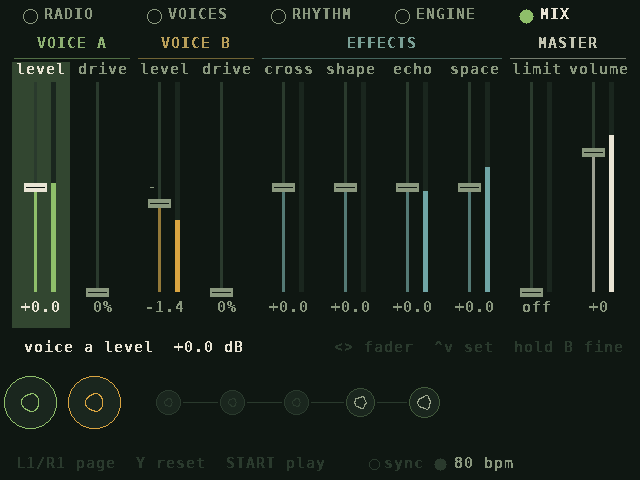
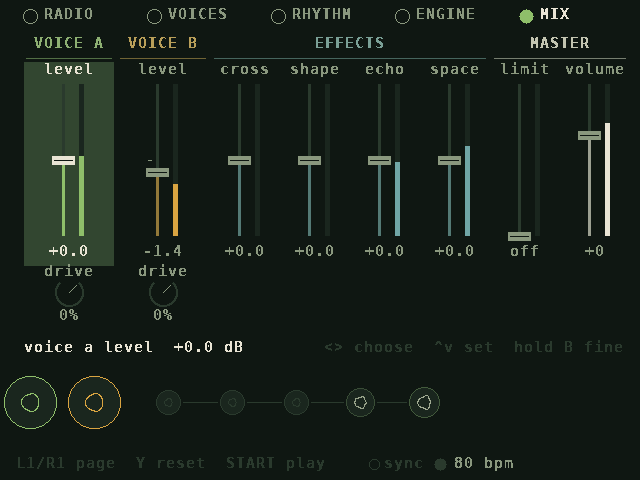
MIX page: voice drive as a knob under each level fader
Claude-Session: https://claude.ai/code/session_01BCwtH7uky1EgFAH9tziGgi

diff --git a/src/main.c b/src/main.c
@@ -1234,21 +1234,27 @@ static void draw_param_page(void)
 
 /* ------------------------------------------------------------------ MIX page: a fader for every level */
 
-typedef struct { int id, meter, group; const char *name; } MixStrip;
+/* one control on the MIX page: a fader, or a knob under its strip's fader (the voices' drive) */
+typedef struct { int id, meter, group, strip, knob; const char *name; } MixStrip;
 enum { MG_A, MG_B, MG_FX, MG_MASTER, MG_COUNT };
 static const char *const mix_group_names[MG_COUNT] = {"VOICE A", "VOICE B", "EFFECTS", "MASTER"};
-static const MixStrip mix_strips[] = {
-    {P_A_LEVEL, MIX_A, MG_A, "level"},       {P_A_DRIVE, -1, MG_A, "drive"},
-    {P_B_LEVEL, MIX_B, MG_B, "level"},       {P_B_DRIVE, -1, MG_B, "drive"},
-    {P_CROSS_LEVEL, MIX_CROSS, MG_FX, "cross"}, {P_SHAPE_LEVEL, MIX_SHAPE, MG_FX, "shape"},
-    {P_ECHO_LEVEL, MIX_ECHO, MG_FX, "echo"},  {P_SPACE_LEVEL, MIX_SPACE, MG_FX, "space"},
-    {P_LIMIT, MIX_LIMIT, MG_MASTER, "limit"}, {P_VOLUME, MIX_OUT, MG_MASTER, "volume"},
+static const MixStrip mix_strips[] = { /* in Left / Right order */
+    {P_A_LEVEL, MIX_A, MG_A, 0, 0, "level"},           {P_A_DRIVE, -1, MG_A, 0, 1, "drive"},
+    {P_B_LEVEL, MIX_B, MG_B, 1, 0, "level"},           {P_B_DRIVE, -1, MG_B, 1, 1, "drive"},
+    {P_CROSS_LEVEL, MIX_CROSS, MG_FX, 2, 0, "cross"},  {P_SHAPE_LEVEL, MIX_SHAPE, MG_FX, 3, 0, "shape"},
+    {P_ECHO_LEVEL, MIX_ECHO, MG_FX, 4, 0, "echo"},     {P_SPACE_LEVEL, MIX_SPACE, MG_FX, 5, 0, "space"},
+    {P_LIMIT, MIX_LIMIT, MG_MASTER, 6, 0, "limit"},    {P_VOLUME, MIX_OUT, MG_MASTER, 7, 0, "volume"},
 };
 #define MIX_N ((int)(sizeof mix_strips / sizeof mix_strips[0]))
-#define MIX_X0 10
-#define MIX_W 62
-#define MIX_TOP 82
-#define MIX_BOT 292
+#define MIX_STRIPS 8
+#define MIX_W 70      /* strip width; the two voice strips are wider */
+#define MIX_W_VOICE 94
+#define MIX_TOP 84
+#define MIX_BOT 236
+#define MIX_KNOB_Y 288
+
+static int mix_strip_x(int strip) { return 22 + (strip < 2 ? strip * MIX_W_VOICE : 2 * MIX_W_VOICE + (strip - 2) * MIX_W); }
+static int mix_strip_w(int strip) { return strip < 2 ? MIX_W_VOICE : MIX_W; }
 
 static Uint32 mix_group_col(int g) { return g == MG_A ? C_LEAF : g == MG_B ? C_AMBER : g == MG_FX ? C_WATER : C_TEXT; }
 
@@ -1259,7 +1265,7 @@ static float mix_frac(int id, float v)
     return f < 0 ? 0 : f > 1 ? 1 : f;
 }
 
-/* short value for under a fader (the full one is shown for the selected fader) */
+/* short value for under a control (the full one is shown for the selected control) */
 static void mix_short_value(int id, float v, char *b, int n)
 {
     const char *unit = param_info[id].unit;
@@ -1269,63 +1275,84 @@ static void mix_short_value(int id, float v, char *b, int n)
     else snprintf(b, n, "%.0f%%", v * 100);
 }
 
+static void draw_mix_fader(const MixStrip *m, int cx, int sel, const float *p)
+{
+    Uint32 col = mix_group_col(m->group);
+    int h = MIX_BOT - MIX_TOP;
+    int tx = cx - 6; /* the track, with the meter to its right */
+    fill(tx - 1, MIX_TOP, 3, h, C_PANEL2);
+    float f = mix_frac(m->id, p[m->id]);
+    int ty = MIX_BOT - (int)(f * h);
+    fill(tx - 1, ty, 3, MIX_BOT - ty, sel ? col : mix_col(C_PANEL2, col, 0.6f));
+    float unity = !strcmp(param_info[m->id].unit, "lvl") ? mix_frac(m->id, 1.0f) :
+                  m->id == P_VOLUME ? mix_frac(m->id, 0.0f) : -1;
+    if (unity >= 0) { int uy = MIX_BOT - (int)(unity * h); fill(tx - 9, uy, 4, 1, C_DIM); }
+    fill(tx - 11, ty - 4, 23, 9, sel ? C_TEXT : C_DIM); /* thumb */
+    fill(tx - 9, ty, 19, 1, C_BG);
+    if (m->meter >= 0) {
+        float mv = synth_mix_meter(syn, m->meter);
+        int mx = cx + 10;
+        fill(mx, MIX_TOP, 5, h, C_PANEL);
+        if (m->meter == MIX_LIMIT) { /* gain reduction grows down from the top */
+            int gh = (int)(fminf(mv * 2.0f, 1.0f) * h);
+            fill(mx, MIX_TOP, 5, gh, C_RUST);
+        } else {
+            float db = 20.0f * log10f(mv + 1e-6f), mf = (db + 48.0f) / 48.0f; /* -48 .. 0 dB */
+            mf = mf < 0 ? 0 : mf > 1 ? 1 : mf;
+            int mh = (int)(mf * h);
+            fill(mx, MIX_BOT - mh, 5, mh, db > -1.0f ? C_RUST : db > -9.0f ? C_AMBER : col);
+        }
+    }
+    char v[24];
+    mix_short_value(m->id, p[m->id], v, sizeof v);
+    text_center(cx, MIX_BOT + 8, v, sel ? C_TEXT : C_DIM, 7);
+}
+
+static void draw_mix_knob(const MixStrip *m, int cx, int sel, const float *p)
+{
+    Uint32 col = mix_group_col(m->group);
+    int w = mix_strip_w(m->strip);
+    if (sel) fill(cx - w / 2 + 2, MIX_KNOB_Y - 26, w - 4, 66, C_SEL);
+    text_center(cx, MIX_KNOB_Y - 24, m->name, sel ? C_TEXT : C_DIM, 7);
+    knob(cx, MIX_KNOB_Y + 4, 13, mix_frac(m->id, p[m->id]), 0, sel ? col : C_DIM);
+    char v[24];
+    mix_short_value(m->id, p[m->id], v, sizeof v);
+    text_center(cx, MIX_KNOB_Y + 20, v, sel ? C_TEXT : C_DIM, 7);
+}
+
 static void draw_mix_page(void)
 {
     const float *p = synth_params(syn);
     if (ui.mix_sel < 0 || ui.mix_sel >= MIX_N) ui.mix_sel = 0;
-    /* group headings over their faders */
+    /* group headings over their strips */
     for (int g = 0; g < MG_COUNT; g++) {
         int first = -1, last = -1;
         for (int i = 0; i < MIX_N; i++)
-            if (mix_strips[i].group == g) { if (first < 0) first = i; last = i; }
-        int x0 = MIX_X0 + first * MIX_W + 4, x1 = MIX_X0 + (last + 1) * MIX_W - 4;
+            if (mix_strips[i].group == g) { if (first < 0) first = mix_strips[i].strip; last = mix_strips[i].strip; }
+        int x0 = mix_strip_x(first) + 4, x1 = mix_strip_x(last) + mix_strip_w(last) - 4;
         Uint32 col = mix_group_col(g);
         text_center((x0 + x1) / 2, 36, mix_group_names[g], mix_col(C_DIM, col, 0.6f), 0);
         fill(x0, 58, x1 - x0, 1, mix_col(C_PANEL2, col, 0.4f));
     }
-    for (int i = 0; i < MIX_N; i++) {
+    const MixStrip *cur = &mix_strips[ui.mix_sel];
+    for (int i = 0; i < MIX_N; i++) { /* the selected fader's strip is lit */
         const MixStrip *m = &mix_strips[i];
-        int x = MIX_X0 + i * MIX_W, cx = x + MIX_W / 2, sel = i == ui.mix_sel;
-        Uint32 col = mix_group_col(m->group);
-        if (sel) fill(x + 2, 62, MIX_W - 4, MIX_BOT - 62 + 36, C_SEL);
-        text_center(cx, 62, m->name, sel ? C_TEXT : C_DIM, 6);
-        int h = MIX_BOT - MIX_TOP;
-        int tx = cx - 6; /* fader track, with the meter to its right */
-        fill(tx - 1, MIX_TOP, 3, h, C_PANEL2);
-        float f = mix_frac(m->id, p[m->id]);
-        int ty = MIX_BOT - (int)(f * h);
-        fill(tx - 1, ty, 3, MIX_BOT - ty, sel ? col : mix_col(C_PANEL2, col, 0.6f));
-        float unity = !strcmp(param_info[m->id].unit, "lvl") ? mix_frac(m->id, 1.0f) :
-                      m->id == P_VOLUME ? mix_frac(m->id, 0.0f) : -1;
-        if (unity >= 0) { int uy = MIX_BOT - (int)(unity * h); fill(tx - 9, uy, 4, 1, C_DIM); }
-        /* thumb */
-        fill(tx - 11, ty - 4, 23, 9, sel ? C_TEXT : C_DIM);
-        fill(tx - 9, ty, 19, 1, C_BG);
-        if (m->meter >= 0) {
-            float mv = synth_mix_meter(syn, m->meter);
-            int mx = cx + 10;
-            fill(mx, MIX_TOP, 5, h, C_PANEL);
-            if (m->meter == MIX_LIMIT) { /* gain reduction grows down from the top */
-                int gh = (int)(fminf(mv * 2.0f, 1.0f) * h);
-                fill(mx, MIX_TOP, 5, gh, C_RUST);
-            } else {
-                float db = 20.0f * log10f(mv + 1e-6f), mf = (db + 48.0f) / 48.0f; /* -48 .. 0 dB */
-                mf = mf < 0 ? 0 : mf > 1 ? 1 : mf;
-                int mh = (int)(mf * h);
-                fill(mx, MIX_BOT - mh, 5, mh, db > -1.0f ? C_RUST : db > -9.0f ? C_AMBER : col);
-            }
-        }
-        char v[24];
-        mix_short_value(m->id, p[m->id], v, sizeof v);
-        text_center(cx, MIX_BOT + 8, v, sel ? C_TEXT : C_DIM, 6);
+        if (m->knob) continue;
+        int x = mix_strip_x(m->strip), w = mix_strip_w(m->strip), cx = x + w / 2, sel = m == cur;
+        if (sel) fill(x + 2, 62, w - 4, MIX_BOT - 62 + 30, C_SEL);
+        text_center(cx, 62, m->name, sel ? C_TEXT : C_DIM, 7);
+        draw_mix_fader(m, cx, sel, p);
     }
-    const MixStrip *m = &mix_strips[ui.mix_sel];
+    for (int i = 0; i < MIX_N; i++)
+        if (mix_strips[i].knob)
+            draw_mix_knob(&mix_strips[i], mix_strip_x(mix_strips[i].strip) + mix_strip_w(mix_strips[i].strip) / 2,
+                          &mix_strips[i] == cur, p);
     char full[64], line_[160];
-    param_format_ctx(m->id, p, full, sizeof full);
-    snprintf(line_, sizeof line_, "%s %s  %s", mix_group_names[m->group], m->name, full);
+    param_format_ctx(cur->id, p, full, sizeof full);
+    snprintf(line_, sizeof line_, "%s %s  %s", mix_group_names[cur->group], cur->name, full);
     for (char *c = line_; *c && c < line_ + 8; c++) *c = (char)tolower((unsigned char)*c);
     text(24, 340, line_, C_TEXT, 30);
-    text_right(624, 340, "<> fader  ^v set  hold B fine", C_PANEL2, 0);
+    text_right(624, 340, "<> choose  ^v set  hold B fine", C_PANEL2, 0);
 }
 
 /* which of the five stages the selected setting acts on (-1: a voice or nothing) */

diff --git a/README.md b/README.md
@@ -128,10 +128,11 @@ every change shows its pattern briefly, like `A  E(5,8) >2  1/8`.
 | SELECT | tap tempo |
 | START | back to PLAY |
 
-**MIX page:** ten faders in four groups: VOICE A (level, drive), VOICE B (level, drive), EFFECTS (cross,
-shape, echo and space return levels) and MASTER (limiter, volume). Left / Right choose a fader, Up / Down move it
-(hold B for fine steps), and Y puts it back to its default. Levels are shown in dB; the tick on each track is unity
-(0 dB), and faders go up to +6 dB. Each fader's meter shows its signal after the fader; the limiter's meter shows
+**MIX page:** faders in four groups: VOICE A and VOICE B (a level fader with a drive knob under it), EFFECTS
+(cross, shape, echo and space return levels) and MASTER (limiter, volume). Left / Right step through the controls
+(each voice's drive knob comes right after its fader), Up / Down set the selected one (hold B for fine steps), and
+Y puts it back to its default. Levels are shown in dB; the tick on each track is unity
+(0 dB), and faders go up to +6 dB. Each meter shows its signal after the fader; the limiter's meter shows
 how much it is turning the sound down. An effect's return level sets how loud it comes back, while its amount on
 the ENGINE page still sets its character (echo feedback, reverb length, how hard the folder works). The limiter
 goes from off to an 18 dB threshold, with the output made back up to just under full scale.
